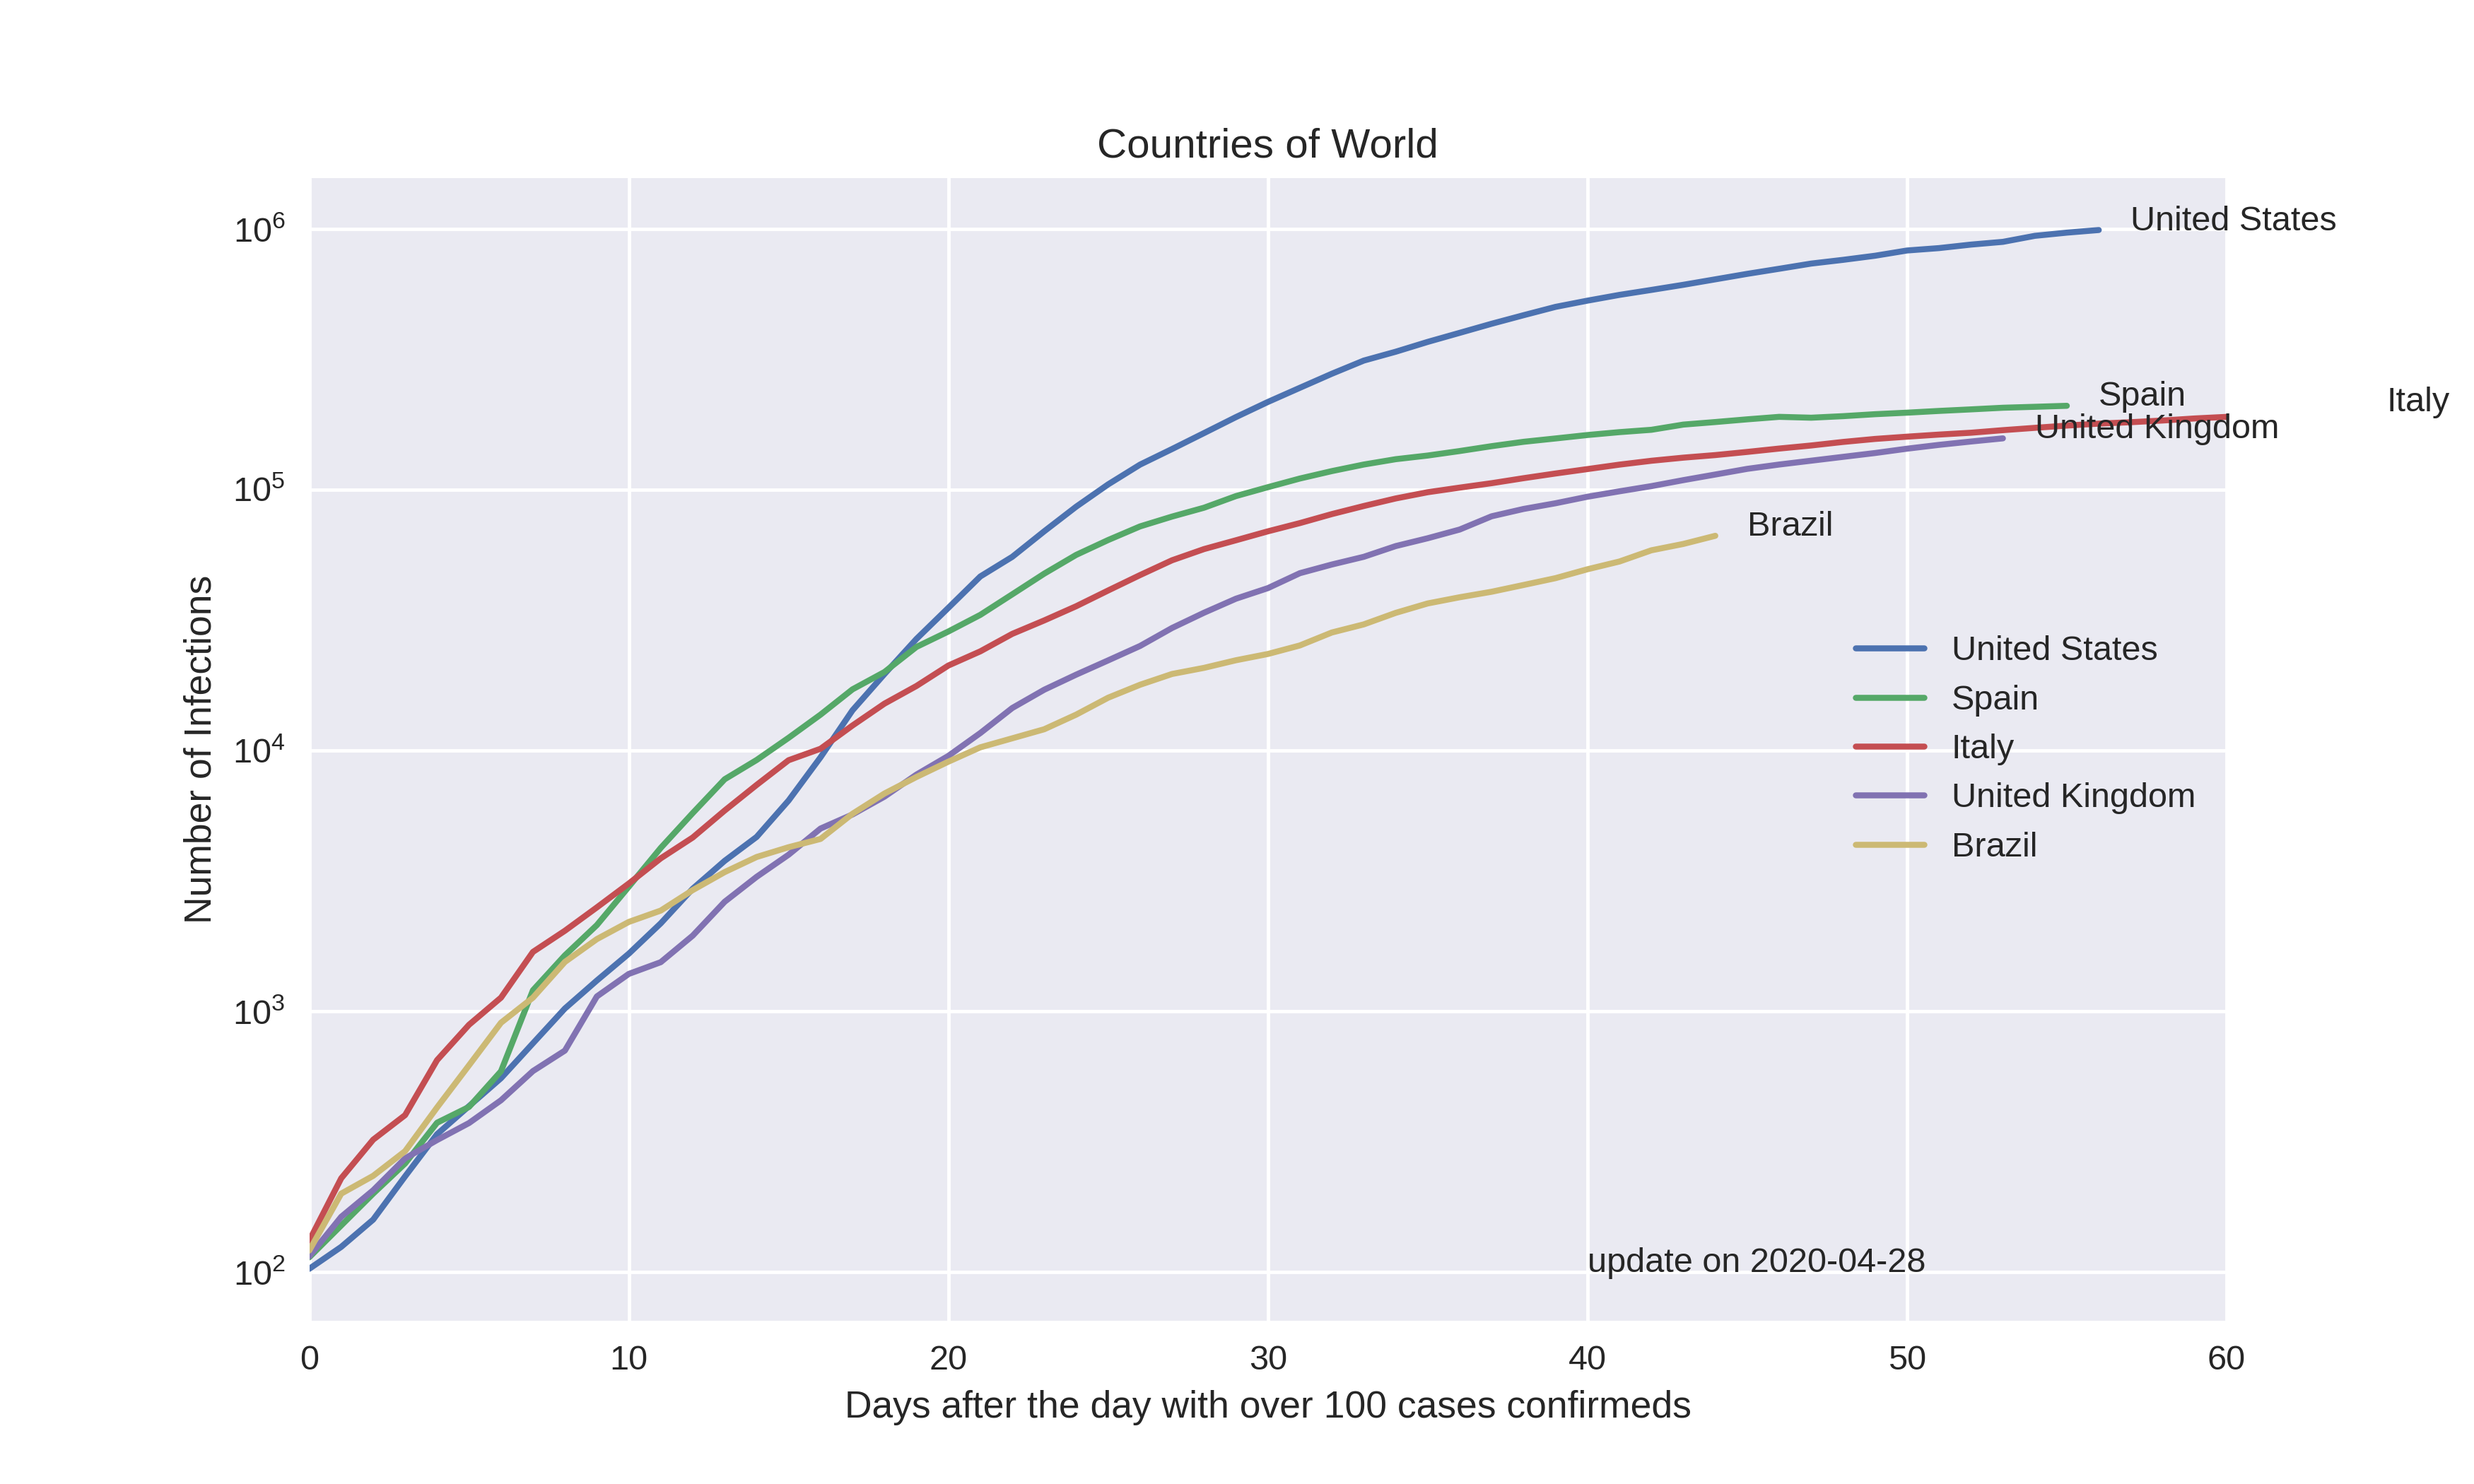
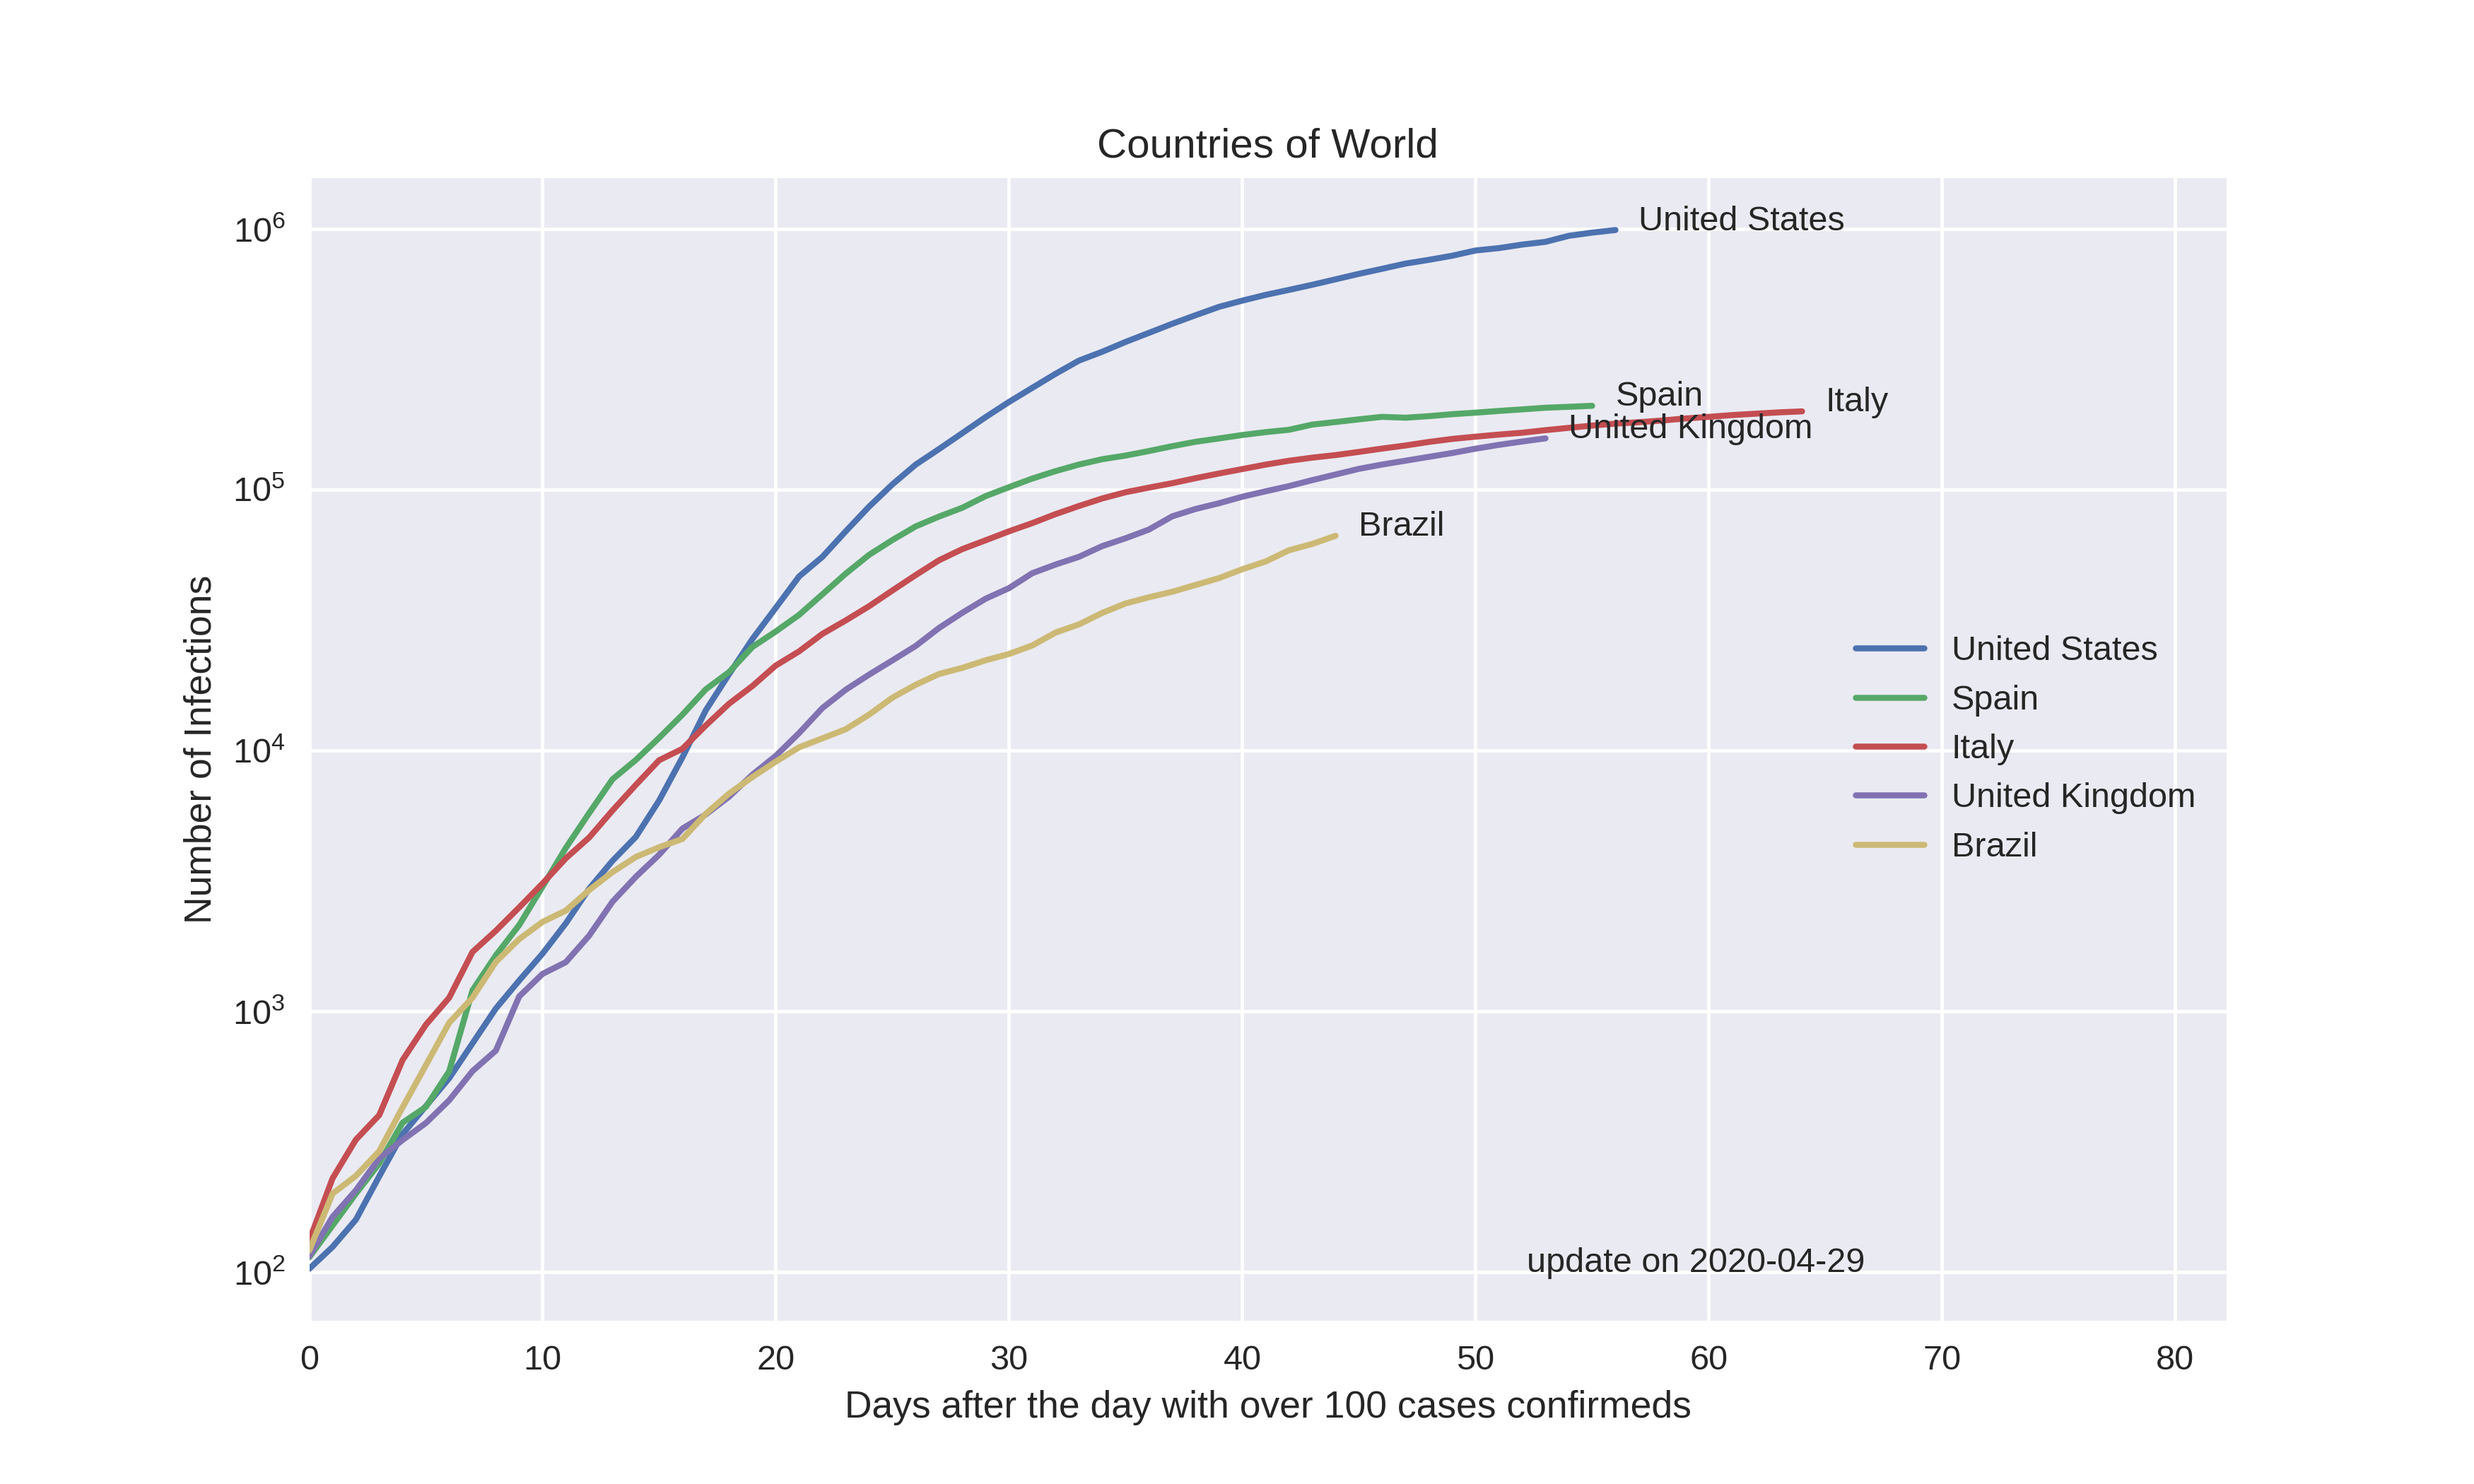
update image automake Brazil world

diff --git a/Corona-Brazil.py b/Corona-Brazil.py
@@ -74,8 +74,11 @@ poptbr, pcovbr = curve_fit(func, xdata, ydata)
 perrbr = np.sqrt(np.diag(pcovbr))
 # Forecast 5 days
 ultimo = (ndate[-1]-case1).days
-prbrxdata = np.arange(ultimo+1,ultimo+7)
+prbrxdata = np.arange(ultimo-1,ultimo+4)
 prbrdata = func(prbrxdata, *poptbr)
+
+serro = func(prbrxdata, *(poptbr+perrbr))
+ierro = func(prbrxdata, *poptbr-perrbr)
 
 dprevisto = (today-case1.date()).days
 hojebr = (func(dprevisto, *poptbr))
@@ -88,7 +91,9 @@ hojebr = (func(dprevisto, *poptbr))
 fig = plt.figure(figsize=[10,6])
 ax2 = plt.subplot()
 
-ax2.plot(dateCase[-len(prbrdata)+1:],prbrdata[:-1],"b*-",label="5-day Forecast")
+ax2.plot(dateCase[-len(prbrdata):],prbrdata,"b*-",label="5-day Forecast")
+ax2.plot(dateCase[-len(prbrdata):],ierro,'k--',lw=.8)
+ax2.plot(dateCase[-len(prbrdata):],serro,'k--',lw=.8)
 ax2.plot(tested.index,tested["total_cases"],"k*--",label="Confirmed Brazil")
 
 ax2.text(pd.to_datetime("2020-03-02"),tested["total_cases"][-1],"Forecast for "+str(datetime.now().date()))
@@ -127,12 +132,12 @@ for ii in sa:
         ax.plot(p.total_cases.values,label=ii)
         ax.text(len(p),p.total_cases.values.max(),ii)
 ax.plot(psum.values,'g*-',label = "Sum South\n America")
-ax.text(len(psum)-5,psum.values.max(),"Sum SouthAmerica",color="g")
-ax.text(len(p)-15,1,'update on '+str(datetime.now().date()))
+ax.text(max(ax.get_xlim())-5,psum.values.max(),"Sum SouthAmerica",color="g")
+ax.text(max(ax.get_xlim())-15,1,'update on '+str(datetime.now().date()))
 ax.set_yscale('log')
 ax.set_title("Countries of South America")
 ax.set_ylabel("Number of Infections")
-ax.set_xlim(0,len(p)+15)
+ax.set_xlim(0,max(ax.get_xlim())+15)
 ax.set_xlabel('Days after the day with over 20 cases confirmeds')
 plt.legend(loc=5)
 # plt.show()
@@ -158,11 +163,11 @@ for ii in borderBR:
         ax.plot(p.total_cases.values,label=ii)
         ax.text(len(p),p.total_cases.max(),ii)
 
-ax.text(len(p)-5,20,'update on '+str(today))
+ax.text(max(ax.get_xlim())-5,20,'update on '+str(today))
 ax.set_yscale('log')
 ax.set_title("Countries bordering of Brazil")
 ax.set_ylabel("Number of Infections")
-ax.set_xlim(0,len(p)+15)
+ax.set_xlim(0,max(ax.get_xlim())+15)
 ax.set_xlabel('Days after the day with over 20 cases confirmeds')
 plt.legend(loc=5)
 # plt.show()
@@ -194,11 +199,11 @@ for ii in top:
         ax.plot(p.total_cases.values,label=ii)
         ax.text(len(p),p.total_cases.max(),ii)
 
-ax.text(40,100,'update on '+str(today))
+ax.text(max(ax.get_xlim())-15,100,'update on '+str(today))
 ax.set_yscale('log')
 ax.set_title("Countries of World")
 ax.set_ylabel("Number of Infections")
-ax.set_xlim(0,len(p)+15)
+ax.set_xlim(0,max(ax.get_xlim())+15)
 ax.set_xlabel('Days after the day with over 100 cases confirmeds')
 plt.legend(loc=5)
 # plt.show()
@@ -227,11 +232,11 @@ for ii in TOP5:
     if len(p) > 0: 
         ax.plot(p.totalCases.values,label=ii)
         ax.text(len(p),p.totalCases.values.max(),ii)
-ax.text(len(p)-10,50,'update on '+str(datetime.now().date()))
+ax.text(max(ax.get_xlim())-10,50,'update on '+str(datetime.now().date()))
 ax.set_yscale('log')
 ax.set_title("5 States of Brazil")
 ax.set_ylabel("Number of Infections")
-ax.set_xlim(0,len(p)+15)
+ax.set_xlim(0,max(ax.get_xlim())+15)
 ax.set_xlabel('Days after the day with over 20 cases confirmeds')
 plt.legend(loc=5)
 plt.grid("both")
